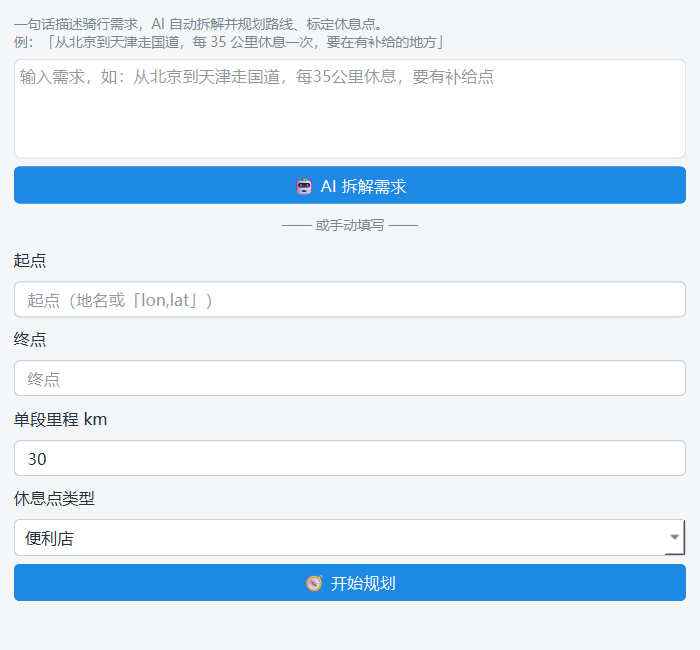
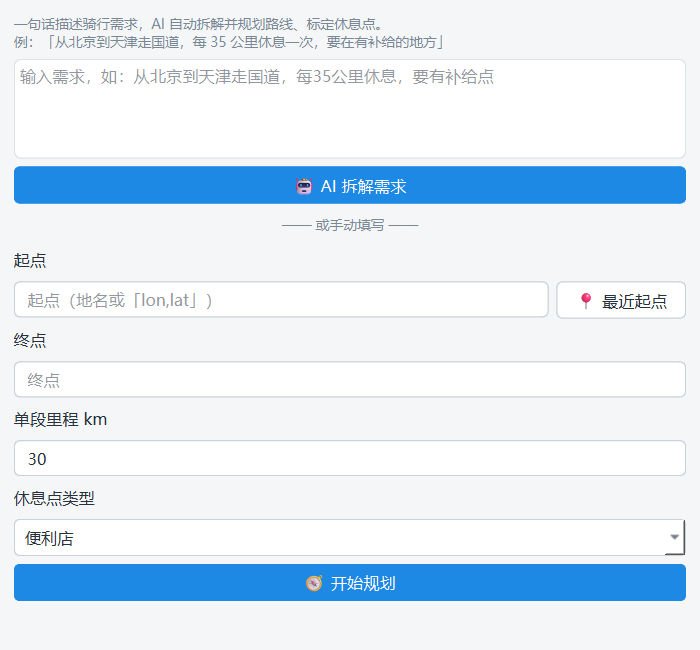
feat: 路书规划定位到最近骑行起点（纯本地方案，零联网）
- db.latest_position：查询最近一次带 GPS 起点的活动（单条 SQL，
  按开始时间倒序，跳过无定位的记录），供规划功能定位用
- 地图选点规划（PlanDialog）：打开时视野自动居中到最近骑行起点；
  WGS-84 坐标注入地图 HTML 后由前端纠偏 JS 转 GCJ-02（复用轨迹页
  amap_track 的同一段实现，不重复造坐标转换）；无 GPS 数据或无
  定位时回退默认视野；右侧状态栏提示「本地数据，不联网」
- 自动规划（AutoPlanDialog）：起点框新增「📍 最近起点」一键填入
  （lon,lat 格式，状态栏显示来源日期），无 GPS 记录时提示先导入
- build_plan_html 提取为独立函数（不依赖 QWebEngineView，可离屏测试）
- README 中英双语：路径规划章节加「起点定位」说明与隐私声明
  （仅读取本地数据库、不发起任何定位/联网请求、无隐私外发），
  功能清单与使用说明同步
- 刷新受界面变动影响的 README 截图（骑行路径 / 自动规划对话框）

背景：此前评估过三种定位方案（高德 IP 定位 / 浏览器定位 / 本地最近
活动起点），选用纯本地方案——不新增数据接收方、无网络请求、保留
用户否决权，无隐私外发。

验证：功能自测 9/9（latest_position 跳过无 GPS 记录、HTML 占位符
全部替换与坐标注入、center=null 回退默认视野、一键填入与状态提示），
防闪烁/P0/P1/修复自测与既有测试全量回归无破坏

Changed region(s): [[0.0, 0.4923, 0.96, 0.6154], [0.78, 0.4308, 0.96, 0.4923]]

diff --git a/gui/route_plan_map.py b/gui/route_plan_map.py
@@ -22,6 +22,10 @@ from PySide6.QtWidgets import (
 
 logger = logging.getLogger("fit.planmap")
 
+# WGS-84 → GCJ-02 前端纠偏 JS：与轨迹页（amap_track.py）共用同一段实现，
+# 用于把本地数据库的 WGS-84 起点坐标转换到高德 GCJ-02 地图上。
+from gui.amap_track import _WGS2GCJ as _WGS2GCJ_JS
+
 # ── 交互式规划地图 HTML 模板 ──
 # 点击地图添加途经点、途经点数字标记、路线折线渲染
 _PLAN_HTML = r"""<!DOCTYPE html>
@@ -29,6 +33,7 @@ _PLAN_HTML = r"""<!DOCTYPE html>
 <head>
 <meta charset="utf-8" />
 <script>window._AMapSecurityConfig = { securityJsCode: '__SEC__' };</script>
+<script>__WGS__</script>
 <script src="https://webapi.amap.com/loader.js"></script>
 <style>
 html,body{margin:0;height:100%;background:#0f1115}
@@ -41,12 +46,14 @@ html,body{margin:0;height:100%;background:#0f1115}
 <div class="waypoint-info" id="waypointInfo"></div>
 <script>
 var map, waypoints = [], markers = [], routeLine = null;
+var INIT_CENTER = __CENTER__;  // 最近骑行起点（WGS-84 [lng,lat]）；null 时用默认北京视野
 
 function initMap() {
     document.body.setAttribute('data-status', 'loading');
     AMapLoader.load({ key: '__KEY__', version: '2.0' }).then(function() {
         document.body.setAttribute('data-status', 'loaded');
-        map = new AMap.Map('map', { viewMode: '2D', zoom: 13, center: [116.397, 39.909] });
+        var c = INIT_CENTER ? wgs84ToGcj02(INIT_CENTER[0], INIT_CENTER[1]) : [116.397, 39.909];
+        map = new AMap.Map('map', { viewMode: '2D', zoom: 13, center: c });
         map.on('click', function(e) {
             var lng = e.lnglat.getLng();
             var lat = e.lnglat.getLat();
@@ -120,6 +127,20 @@ function renderRoute(polylineCoords) {
 </html>"""
 
 
+def build_plan_html(key, sec, init_center=None):
+    """生成路径规划地图 HTML。
+
+    init_center: WGS-84 [lng, lat]（如本地数据库里最近骑行的起点），
+    前端用纠偏 JS 转成 GCJ-02 后作为地图初始视野；None 时用默认北京视野。
+    提取为独立函数便于离屏测试（不依赖 QWebEngineView）。
+    """
+    return (_PLAN_HTML
+            .replace("__KEY__", key or "")
+            .replace("__SEC__", sec or "")
+            .replace("__WGS__", _WGS2GCJ_JS)
+            .replace("__CENTER__", json.dumps(init_center)))
+
+
 class RoutePlanMapWidget(QWidget):
     """交互式地图组件：点击选点 + 途经点管理 + 路线渲染。
 
@@ -127,11 +148,12 @@ class RoutePlanMapWidget(QWidget):
     读取 JS 变量 getWaypointsJSON() 获取途经点坐标。
     """
 
-    def __init__(self, config, parent=None):
+    def __init__(self, config, parent=None, init_center=None):
         super().__init__(parent)
         self.config = config
         self._key = (config.get("amap_key") or "").strip()
         self._sec = (config.get("amap_security") or "").strip()
+        self._init_center = init_center  # WGS-84 [lng, lat] 或 None
         self._waypoints = []  # [(lng, lat), ...]
 
         lay = QVBoxLayout(self)
@@ -149,8 +171,8 @@ class RoutePlanMapWidget(QWidget):
         lay.addWidget(self._web)
 
     def _load_map(self):
-        html = _PLAN_HTML.replace("__KEY__", self._key).replace("__SEC__", self._sec or "")
-        self._web.setHtml(html, QUrl("file:///"))
+        self._web.setHtml(build_plan_html(self._key, self._sec, self._init_center),
+                          QUrl("file:///"))
 
     def refresh_waypoints(self, callback):
         """通过 runJavaScript 读取 JS 里存储的途经点坐标，回调 callback(points)。"""
@@ -173,7 +195,7 @@ class RoutePlanMapWidget(QWidget):
 class PlanDialog(QDialog):
     """路径规划对话框（行者风格）：左侧交互地图 + 右侧途经点列表。"""
 
-    def __init__(self, config, ai_client_factory=None, ai_enabled=False, parent=None):
+    def __init__(self, config, ai_client_factory=None, ai_enabled=False, parent=None, db=None):
         super().__init__(parent)
         self.config = config
         self._ai_factory = ai_client_factory
@@ -181,10 +203,17 @@ class PlanDialog(QDialog):
         self.setWindowTitle("路径规划（地图点击选点）")
         self.resize(960, 640)
 
+        # 定位到最近一次骑行的 GPS 起点：纯本地数据，不发起任何定位/联网请求
+        init_center = None
+        if db is not None:
+            pos = db.latest_position()
+            if pos:
+                init_center = [pos["lon"], pos["lat"]]
+
         hlay = QHBoxLayout(self)
 
         # 左侧：地图
-        self.map_widget = RoutePlanMapWidget(config, self)
+        self.map_widget = RoutePlanMapWidget(config, self, init_center=init_center)
         hlay.addWidget(self.map_widget, 3)
 
         # 右侧：途经点列表 + 操作
@@ -222,6 +251,9 @@ class PlanDialog(QDialog):
         self.status = QLabel("")
         self.status.setWordWrap(True)
         right.addWidget(self.status)
+
+        if init_center:
+            self.status.setText("地图已定位到你最近一次骑行的 GPS 起点（本地数据，不联网）")
 
         hlay.addLayout(right, 1)
 

diff --git a/gui/auto_plan_dialog.py b/gui/auto_plan_dialog.py
@@ -37,11 +37,12 @@ class _PlanWorker(QThread):
 
 
 class AutoPlanDialog(QDialog):
-    def __init__(self, config, ai_client_factory=None, ai_enabled=False, parent=None):
+    def __init__(self, config, ai_client_factory=None, ai_enabled=False, parent=None, db=None):
         super().__init__(parent)
         self.config = config
         self._ai_factory = ai_client_factory
         self._ai_enabled = ai_enabled
+        self._db = db
         self._worker = None
         self.setWindowTitle("输入内容自动规划路书（长途/跨市）")
         self.resize(560, 520)
@@ -82,7 +83,13 @@ class AutoPlanDialog(QDialog):
         self.cb_rest.addItems(["便利店", "超市", "餐馆", "加油站", "住宿", "药店"])
 
         lay.addWidget(QLabel("起点"))
-        lay.addWidget(self.ed_origin)
+        origin_row = QHBoxLayout()
+        origin_row.addWidget(self.ed_origin, 1)
+        btn_last = QPushButton("📍 最近起点")
+        btn_last.setToolTip("用本地数据库中最近一次骑行的 GPS 起点填入（纯本地数据，不联网）")
+        btn_last.clicked.connect(self._use_last_start)
+        origin_row.addWidget(btn_last)
+        lay.addLayout(origin_row)
         lay.addWidget(QLabel("终点"))
         lay.addWidget(self.ed_dest)
         lay.addWidget(QLabel("单段里程 km"))
@@ -129,6 +136,18 @@ class AutoPlanDialog(QDialog):
             self.cb_rest.setCurrentIndex(idx)
         self.status.setStyleSheet("")
         self.status.setText(f"已解析：{params.get('origin_city')} → {params.get('dest_city')}，单段 {params.get('segment_km')}km")
+
+    def _use_last_start(self):
+        """用最近一次骑行的 GPS 起点填入起点框（纯本地数据，不联网）。"""
+        if self._db is None:
+            QMessageBox.information(self, "提示", "未连接数据库")
+            return
+        pos = self._db.latest_position()
+        if not pos:
+            QMessageBox.information(self, "提示", "数据库里还没有带 GPS 的骑行记录，请先导入 FIT")
+            return
+        self.ed_origin.setText(f"{pos['lon']:.6f},{pos['lat']:.6f}")
+        self.status.setText(f"已用最近骑行起点（{pos.get('start_time', '')[:10]}），可直接修改")
 
     def _resolve_place(self, key, place, label):
         """地名消歧：多候选弹列表选择。

diff --git a/gui/main_window.py b/gui/main_window.py
@@ -1577,14 +1577,14 @@ class MainWindow(QMainWindow):
         """打开路径规划对话框（地图点击选点）。"""
         from gui.route_plan_map import PlanDialog
         dlg = PlanDialog(self.config, ai_client_factory=self._ai_client,
-                         ai_enabled=self.config.get("ai_enabled"), parent=self)
+                         ai_enabled=self.config.get("ai_enabled"), parent=self, db=self.db)
         dlg.exec()
 
     def open_auto_plan(self):
         """打开输入内容自动规划对话框（自然语言 → 分段接力 → 休息点标定）。"""
         from gui.auto_plan_dialog import AutoPlanDialog
         dlg = AutoPlanDialog(self.config, ai_client_factory=self._ai_client,
-                             ai_enabled=self.config.get("ai_enabled"), parent=self)
+                             ai_enabled=self.config.get("ai_enabled"), parent=self, db=self.db)
         dlg.exec()
 
     def export_route(self):

diff --git a/core/db.py b/core/db.py
@@ -331,6 +331,18 @@ class DB:
         return {r["d"]: {"km": round((r["dist"] or 0) / 1000.0, 1), "count": r["cnt"]}
                 for r in rows}
 
+    @_locked
+    def latest_position(self):
+        """最近一次有 GPS 起点的活动：{lat, lon, start_time}；无返回 None。
+
+        供路书规划「定位到最近骑行起点」用——纯本地数据，不联网。
+        """
+        row = self.conn.execute(
+            """SELECT lat, lon, start_time FROM activities
+               WHERE lat IS NOT NULL AND lon IS NOT NULL
+               ORDER BY start_ts DESC LIMIT 1""").fetchone()
+        return dict(row) if row else None
+
     # ---------------- 装备台账 ----------------
     @_locked
     def gear_list(self):

diff --git a/README_EN.md b/README_EN.md
@@ -12,7 +12,7 @@ A free, local, offline **cycling FIT data analysis tool** (pure desktop Windows 
 - **Ride calendar heatmap**: last 6 months colored by daily distance (GitHub-contribution style), hover for per-day detail
 - **Training load trend**: monthly view shows CTL (fitness) / ATL (fatigue) / TSB (form) as three curves, computed with daily calendar-day decay over all data
 - **Route analysis**: one-click convert a historical activity to a route, GPX route import, climb-segment highlighting on the elevation profile (Cat4~HC five levels), AI route difficulty interpretation
-- **Route planning**: interactive point selection on AMap (XOSS style), waypoint chaining, GCJ-02 → WGS-84 coordinate correction
+- **Route planning**: interactive point selection on AMap (XOSS style), waypoint chaining, GCJ-02 → WGS-84 coordinate correction, map auto-centered on your most recent ride start (local data, offline)
 - **Auto route planning**: describe your needs in one sentence (e.g. "Beijing to Tianjin, rest every 35 km, where there is supply"), AI parsing + segmented relay + nearby rest-point marking — ideal for long-distance / cross-city rides
 - **Heart-rate zone deep summary**: turn 5-zone HR distribution into training-structure diagnosis (aerobic / threshold / anaerobic proportions + pace comparison + advice)
 - **Nutrition plan**: quantified hydration / carbohydrate / electrolyte recommendations by distance / time / intensity / temperature
@@ -133,6 +133,8 @@ Toolbar "🧭 Route planning" opens the map-interactive route planner (XOSS-styl
 1. **Click to add waypoints** on the AMap on the left (with numbered markers); the right-side list syncs in real time
 2. Waypoints are planned by AMap cycling routing (segmented planning + splicing), avoiding "rocket straight lines" between start and end, keeping to actual ridable roads
 3. Click "Plan route" to generate and render on the map; click "Convert to route analysis" to reuse the route dialog (altitude / climb / AI / export)
+
+> **Start-point location**: when the map opens, the view is centered on the **GPS start point of your most recent ride**; the "✨ Auto route planning" dialog also offers a "📍 Recent start" one-click fill. Location is read only from the **local database** (the latest activity with GPS) — no positioning or network request is made, nothing leaves your machine.
 
 **Dependency**: fill in an AMap "**Web service**" key under Settings → AMap route planning (a different key type from the track page's "Web JS API" key). Personal certification offers tens of thousands of free calls per month — plenty for personal use.
 
